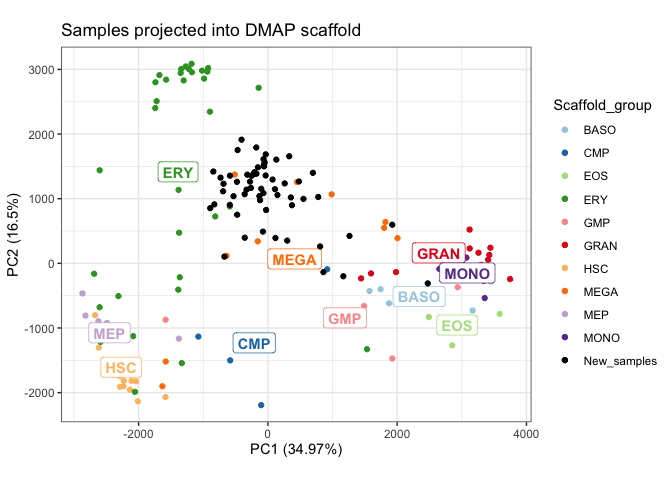
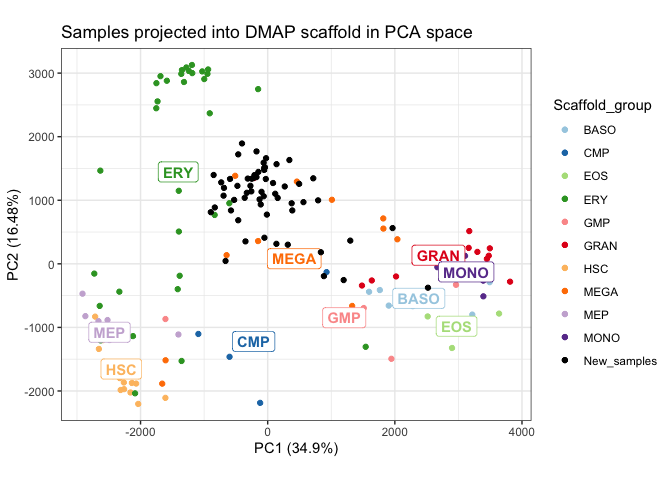
Add UMAP option, DEG subsetting, and renamed parameters

diff --git a/README.md b/README.md
@@ -27,7 +27,7 @@ remotes::install_github("shdam/spaceRATScaffolds", build_vignettes = TRUE)
 *Install from GitHub*
 
 ``` r
-remotes::install_github("XueningHe/spaceRAT", build_vignettes = TRUE)
+remotes::install_github("shdam/spaceRAT", build_vignettes = TRUE)
 ```
 
 ## View vignettes
@@ -53,11 +53,11 @@ prebuilt DMAP, or build a scaffold space of your own, by passing as
 arguments a count matrix, a phenotype table, an a column name of the
 phenotype table to function `buildScaffold()`.
 
-Build a space with example data:
+Build a scaffold with example data:
 
 ``` r
 library(spaceRAT)
-data("DMAP_exprs", "DMAP_pData", package="spaceRATScaffolds")
+data("DMAP_exprs", "DMAP_pData", package = "spaceRATScaffolds")
 scaffold <- buildScaffold(
     DMAP_exprs, pheno = DMAP_pData,
     colname = "cell_types", data = "exprs")
@@ -67,7 +67,7 @@ scaffold <- buildScaffold(
 #> Scaffold is built.
 plotScaffold(
     scaffold, title = "Scaffold Plot",
-    dim_reduction = "PCA", dims = c(1,2), plot_mode = "dot")
+    dimred = "PCA", dims = c(1,2), plot_mode = "dot")
 ```
 
 <img src="man/figures/README-build-1.png" width="100%" />
@@ -94,9 +94,11 @@ scaffold <- buildScaffold("DMAP_scaffold")
 # Project sample
 projectSample(
     sample = ilaria_counts,
-    space = scaffold,
+    scaffold = scaffold, 
+    plot_mode = "dot",
     dims = c(1,2),
-    title = "Samples projected into DMAP scaffold")
+    dimred = "PCA",
+    title = "Samples projected into DMAP scaffold in PCA space")
 #> Preprocessing complete.
 #> 6 genes are added to count matrix with imputed expression level 0.
 ```

diff --git a/inst/NEWS.md b/inst/NEWS.md
@@ -1,9 +1,12 @@
 # spaceRAT 0.99.0
 
+* Added `add_umap` option for `buildScaffold` to include UMAP scaffolds
+* Parameter renaming: `space` -> `scaffold` and `dim_reduction` -> `dimred`
+* Added parameter that enables or disables differential expression analysis in `buildScaffold` (`subset_deg`).
 * Fixed `as.data.frame` bug where rownames are not assigned when converting from tibbles
 * "logged" -> "exprs"
 * Preparing package for Bioconductor submission
-* Write vignettes
-* Add tests
+* Wrote vignettes
+* Added tests
 * Moved scaffolds and example data to a separate data package called 
 [spaceRATScaffolds](https://github.com/shdam/spaceRATScaffolds)
